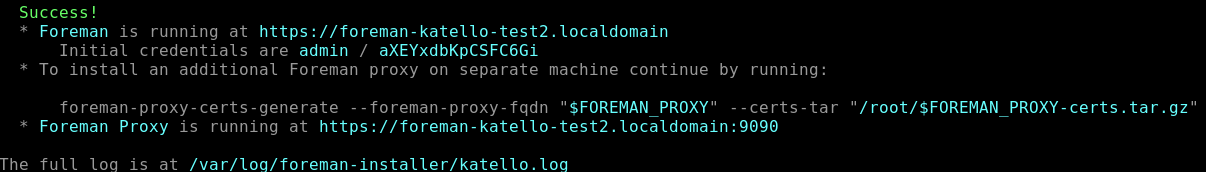
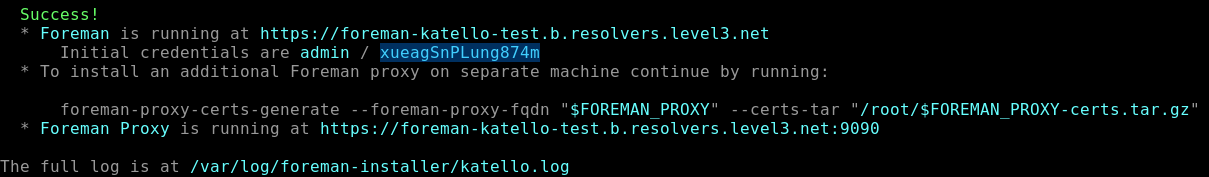
vault backup: 2025-11-26 12:08:34

diff --git a/Setting/Installation.md b/Setting/Installation.md
@@ -1,4 +1,4 @@
-suIn questa guida mostrerò come installare Forman con Puppet, Katello e il plugin Discovery. Vedremop come installare e configurare i server DHCP e TFTP. Mostrerò anche come configurare Foreman e come utilizzare l'immagine di avvio di Foreman tramite PXE.
+
 ## Setup check
 ```bash
 cat /etc/os-release
@@ -96,6 +96,7 @@ Dovresti ottenere qualcosa di similie:
 nano /etc/sysconfig/network-scripts/ifcfg-eth0
 ```
 eg. → Change e set `BOOTPROTO=static` add `IPADDR=172.20.10.10` add `PREFIX=24` add `GATEWAY=172.20.10.1`
+![img](../img/img10.png)
 Spegni e accendi l'interfaccia di rete
 ```bash
 sudo ip link set eth0 down && sudo ip link set eth0 up
@@ -113,6 +114,7 @@ route -n
 nano /etc/resolv.conf
 ```
 add `nameserver 4.2.2.2`
+![img](../img/img11.png)
 ## Set del hostname
 ```bash
 hostname foreman-katello-test
@@ -125,7 +127,6 @@ hostnamectl set-hostname foreman-katello-test
 ifconfig
 ```
 ![img](../img/img6.png)
-
 In questo caso il NIC eth0 e l'IP 10.172.2.17
 - verifichiamo l'hostname se non se siamo sicuri
 ```bash
@@ -140,16 +141,15 @@ ci aspetta un Output simile `DNS-Server-IP: IP4.DNS[1]: 192.168.2.1`
 ```bash
 nslookup 4.2.2.2
 ```
-ci aspetta un Output simile `1.2.168.192.in-addr.arpa name = speedport.ip.`
-Essendo noi in un laboratorio test ed unico interesse in questo momento che il servizio venga raggiunto solamente da un host all'interno della stessa subnet aggiriamo il problema.
+ci aspetta un Output simile `1.2.168.192.in-addr.arpa name = b.resolvers.level3.net.
 ## edit il file hosts
 - edit `/etc/hosts`
 ```bash
 sudo nano /etc/hosts
 ```
-IL dominio per la mappatura di un nuov host dovrebbe essere: `<host name+routers domain> <host name>` nel nostro ambiente di test seguendo l'esempio di prima inseriremo l'IP 10.172.2.17 hostname della macchina e `.localdomain` seguendo la logical del file. Dovremmo ottenere un risultato simile.
-![img](../img/img5.png)
-nel caso di una non limitazione di laboratorio per il DNS il risultato sarebbe stato `10.172.2.17 foreman-katello-test2speedport.ip. foreman-katello-test2` o qualcosa di simile.
+IL dominio per la mappatura di un nuov host dovrebbe essere: `<host name+routers domain> <host name>` nel nostro ambiente di test seguendo l'esempio di prima inseriremo l'IP 10.172.2.15 hostname della macchina e `b.resolvers.level3.net.` seguendo la logical del file. Dovremmo ottenere un risultato simile.
+![img](../img/img12.png)
+Nel caso di una non limitazione di laboratorio per il DNS il risultato sarebbe stato `10.172.2.15 foreman-katello-test.b.resolvers.level3.net. foreman-katello-test` o qualcosa di simile.
 ## Settiamo le regole del firewall
 ```bash
 firewall-cmd --add-port="5646/tcp"
@@ -220,7 +220,7 @@ Verifichiamo che tutto sia vvenuto correttamente.
 dnf repolist enabled
 ```
 Dovremmo ottenere un risultato simile.
-![img](../img/img4.png)
+![img](../img/img13.png)
 ## Installazione dei pacchetti del server Foreman
 1. Aggiorniamo tutti i pacchetti:
 ```bash
@@ -233,10 +233,25 @@ dnf install -y foreman-installer-katello
 ## Lanciamo l'installer di Foreman per katello
 L'installazione non è interattiva, ma la configurazione può essere personalizzata specificando una qualsiasi delle opzioni elencate in foreman-installer --help, oppure eseguendo foreman-installer -i per la modalità interattiva. Ulteriori esempi sono descritti nella sezione Opzioni di installazione. L'opzione -v disabilita la barra di avanzamento e visualizza tutte le modifiche.
 ```bash
-foreman-installer --scenario katello
+sudo foreman-installer --scenario katello \
+  --enable-foreman-plugin-remote-execution \
+  --enable-foreman-plugin-ansible \
+  --enable-foreman-proxy-plugin-ansible \
+  --enable-foreman-plugin-discovery
 ```
 Dovremmo ottenere un risultato simile. 
 ![img](../img/img2.png)
+
+Opzione|Significato
+---|---
+`--scenario katello`|Installa Foreman + Katello (Content Management)|
+`--enable-foreman-plugin-remote-execution`|Abilita il plugin Remote Execution su Foreman
+`--enable-foreman-proxy-plugin-remote-execution-ssh`|Abilita il proxy SSH per Remote Execution, necessario per connettersi agli host via SSH
+`--enable-foreman-plugin-ansible`|Abilita il plugin Ansible per integrare job template, playbook e automation
+`--enable-foreman-proxy-plugin-ansible`|Abilita il proxy per Ansible, per eseguire playbook su host
+`--enable-foreman-plugin-discovery`|Abilita il plugin Discovery per rilevare nuovi host in rete (PXE boot)
+Verifica che il portale sia accessibile: 
+![img](../img/img4.png)
 Come si vede nell'output queste sono le credenziali con la password generate per accedere a foreman. `Initial credentials are admin / aXEYxdbKpCSFC6Gi`
 Il servizio è operativo a `https://foreman-katello-test2.localdomain` però nel nostro in assenza di DNS possiamo contattare la macchina al'indirizzo ip https://10.172.2.17
 

diff --git a/Utenze/ASL0603.md b/Utenze/ASL0603.md
@@ -26,4 +26,4 @@ Location : Italy North
 
 Credential Foreman-katello 
 user: `admin`
-pwd : `RJogXWSr9KruB5aL`
+pwd : `xueagSnPLung874m`
